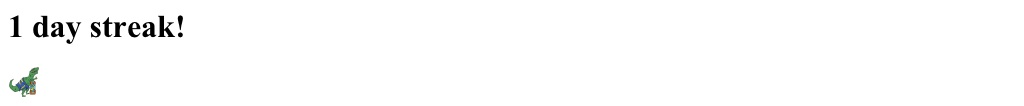
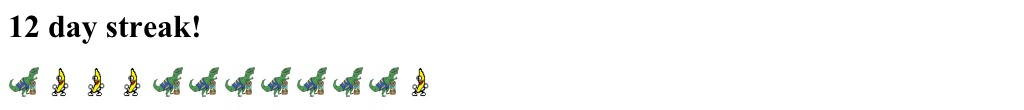
day_13 redoing commit streak generator

Changed region(s): [[0.0, 0.5943, 0.4375, 0.9057], [0.0, 0.1415, 0.2188, 0.4245]]

diff --git a/day_13/commit_streak_image_generator.py b/day_13/commit_streak_image_generator.py
@@ -32,7 +32,7 @@ commit_days.reverse()
 
 max_streak = 1
 for commit_day in commit_days[1:]:
-    if commit_day == last_day.shift(days=-1):
+    if commit_day == last_day.shift(days=1):
         max_streak += 1
     else:
         max_streak = 1
